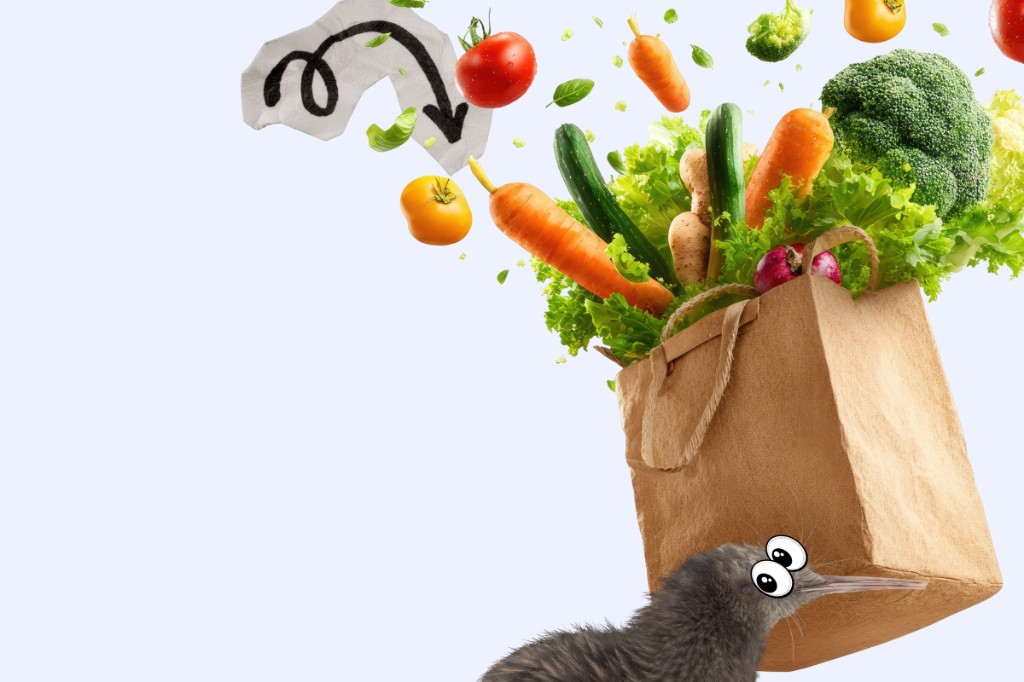
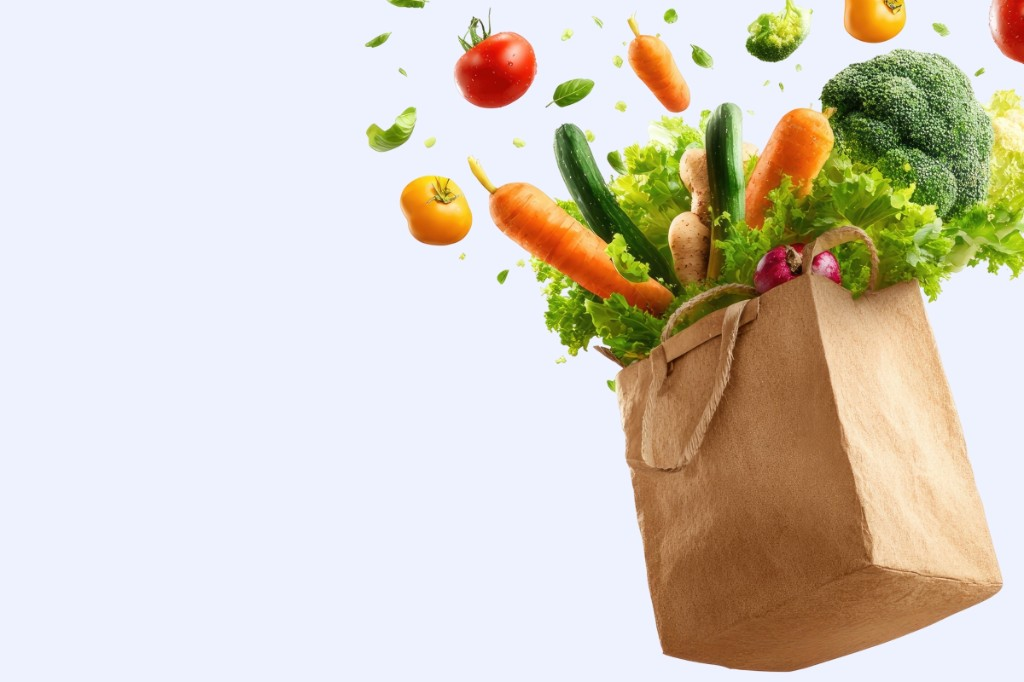
Update visitor homepage hero background to full-opacity CSS image.
Replace the washed-out overlay with the new 2400x1600 asset displayed exactly as supplied.

Changed region(s): [[0.4688, 0.7698, 0.9062, 1.0], [0.2188, 0.0, 0.5, 0.2771]]

diff --git a/src/components/home/HomeHero.tsx b/src/components/home/HomeHero.tsx
@@ -82,7 +82,7 @@ export function HomeHero({
     >
       {isVisitorHero ? (
         <div
-          className="pointer-events-none absolute inset-0 z-0 bg-cover bg-center bg-no-repeat opacity-70"
+          className="pointer-events-none absolute inset-0 z-0 bg-cover bg-center bg-no-repeat"
           style={{ backgroundImage: `url('${VISITOR_HERO_BACKGROUND}')` }}
           aria-hidden="true"
         />